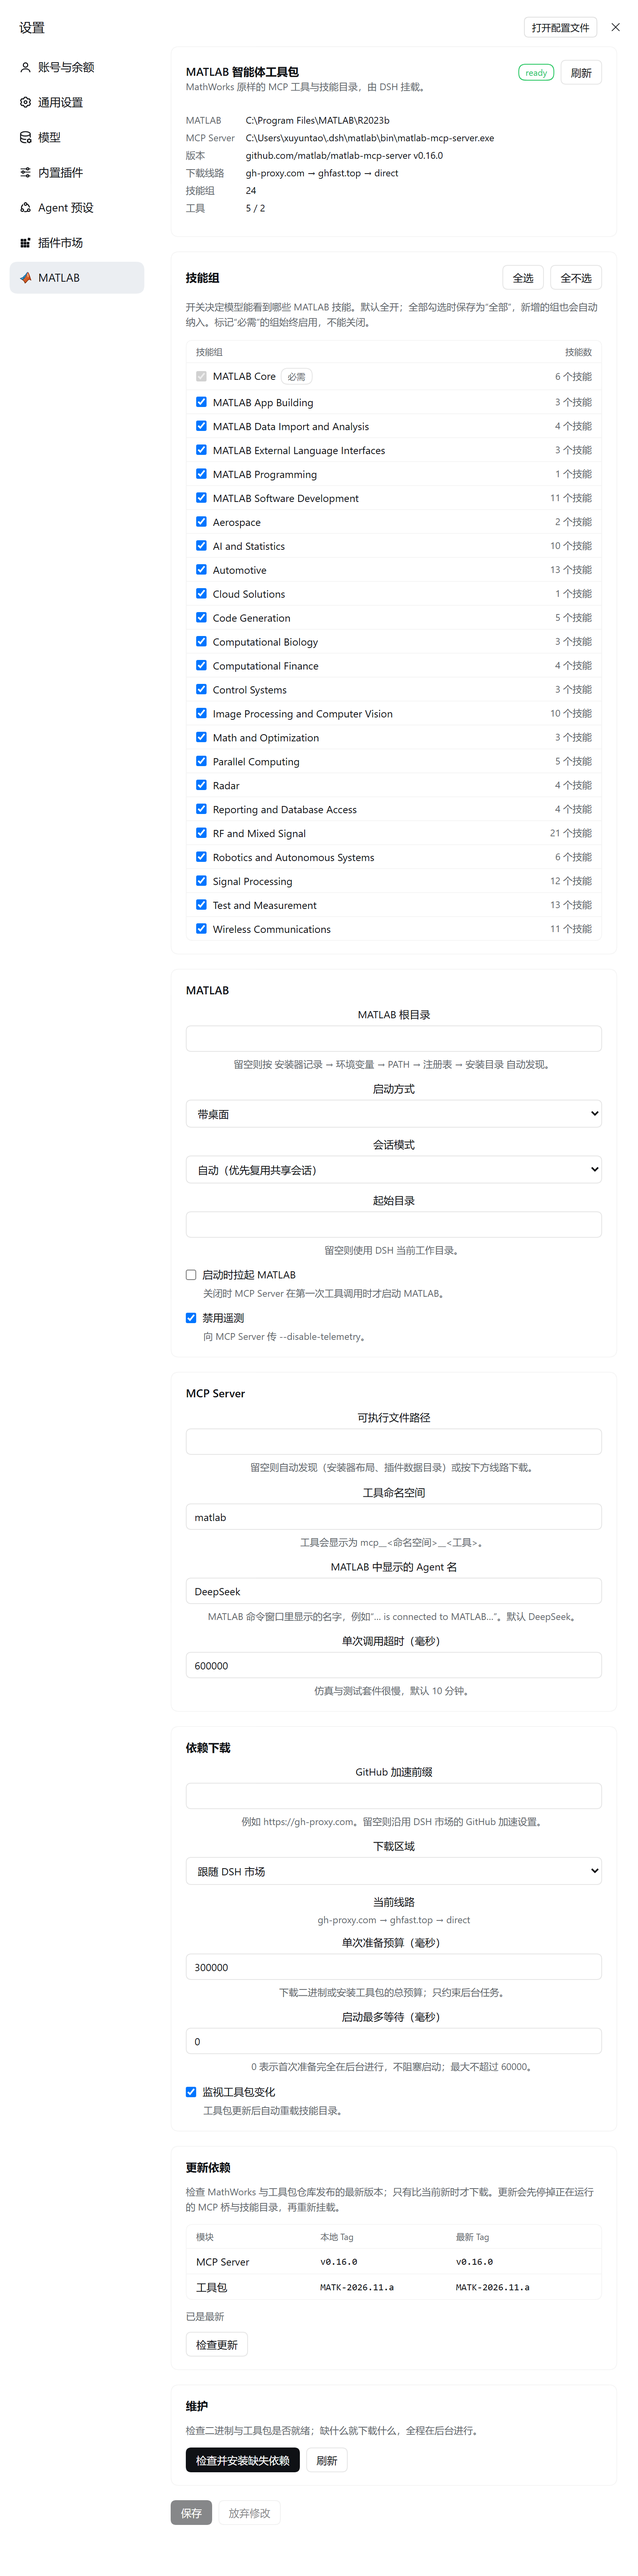
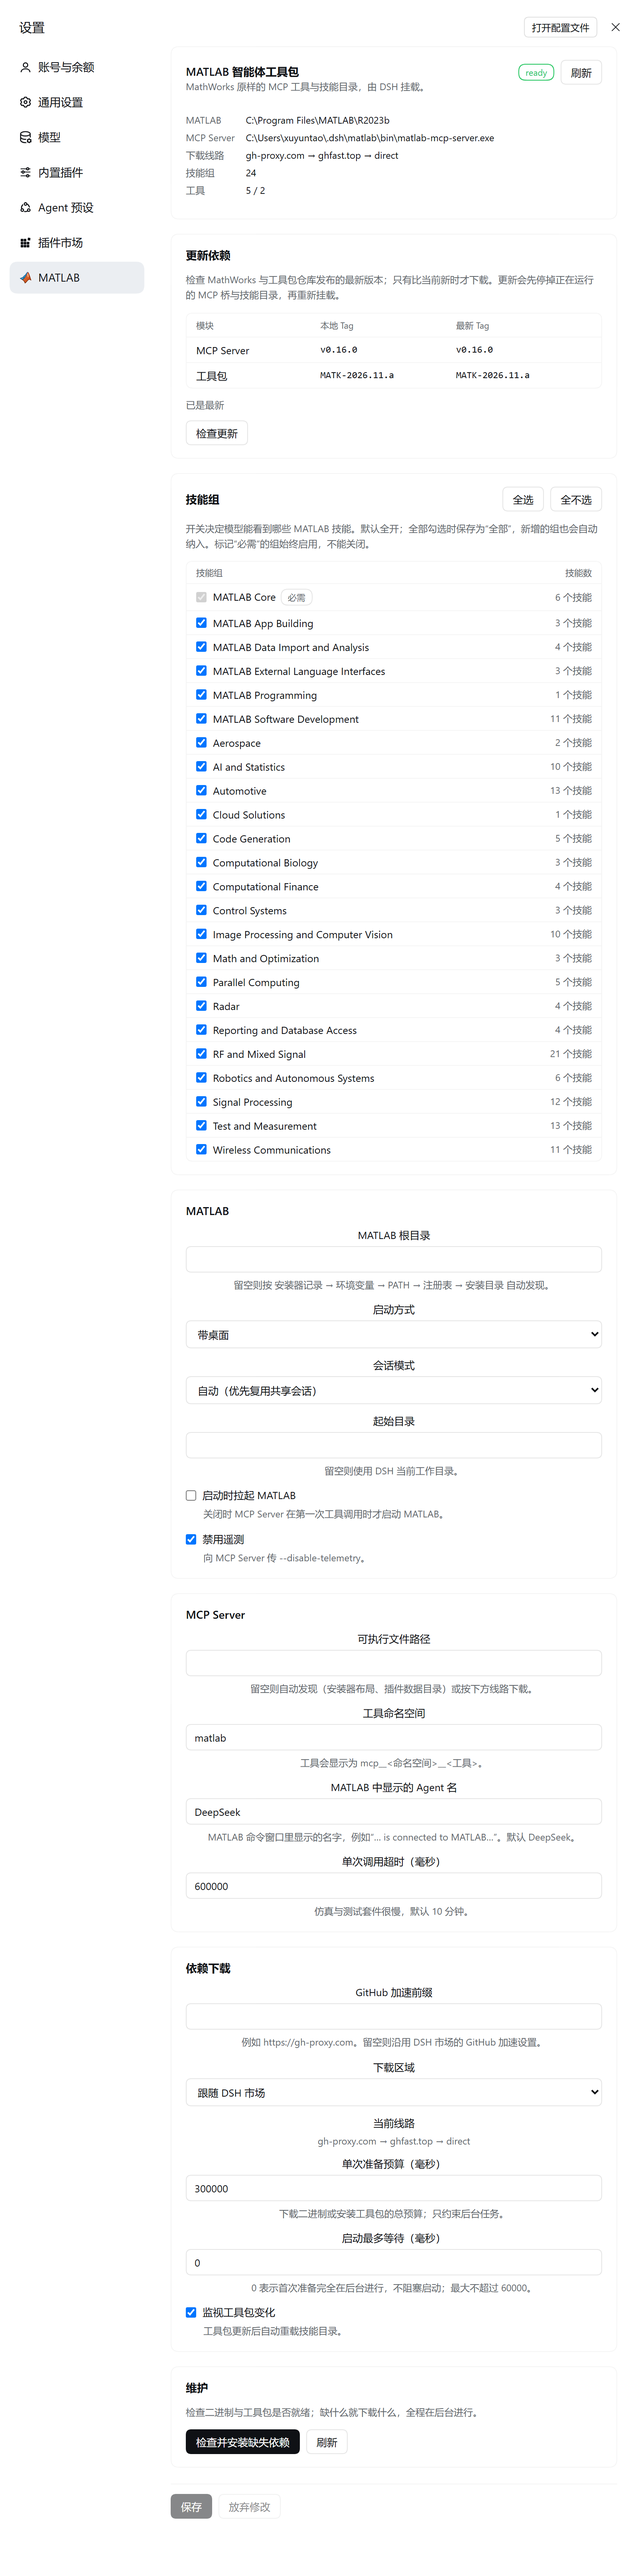
feat: put updates beside the status card and pin the save bar
- the status card no longer repeats the MCP Server version; the release tag
  is the Updates table's job now, and the version line duplicated it;
- the Updates table moved directly under the status card, so "what is
  installed / what is published" reads together before the long group list;
- Save / Discard is a sticky bar at the bottom of the settings viewport
  instead of the last thing in a 3000 px page, which nobody scrolled to;
- version 1.1.1, and the settings screenshot is retaken for the new order.

diff --git a/client/client.js b/client/client.js
@@ -33,7 +33,6 @@ window.__ModuleLoader__.load({
         phase: '阶段',
         matlab: 'MATLAB',
         server: 'MCP Server',
-        version: '版本',
         route: '下载线路',
         tools: '工具',
         resources: '资源',
@@ -140,7 +139,6 @@ window.__ModuleLoader__.load({
         phase: 'Phase',
         matlab: 'MATLAB',
         server: 'MCP Server',
-        version: 'Version',
         route: 'Route',
         tools: 'Tools',
         resources: 'Resources',
@@ -277,7 +275,8 @@ window.__ModuleLoader__.load({
     }
 
     const STYLES = `
-.mp-page{display:flex;flex-direction:column;gap:18px;max-width:760px;padding:4px 2px 40px;color:var(--dsw-alias-label-primary)}
+.mp-page{display:flex;flex-direction:column;gap:18px;max-width:760px;padding:4px 2px 0;color:var(--dsw-alias-label-primary)}
+.mp-savebar{position:sticky;bottom:-1px;z-index:6;display:flex;flex-wrap:wrap;align-items:center;gap:8px;margin-top:2px;padding:12px 0 14px;background:var(--dsw-alias-bg-base);border-top:1px solid var(--dsw-alias-border-l1);box-shadow:0 -12px 20px -20px rgba(0,0,0,.45)}
 .mp-card{border:1px solid var(--dsw-alias-border-l1);border-radius:12px;background:var(--dsw-alias-bg-layer-1);padding:16px 18px;display:flex;flex-direction:column;gap:12px}
 .mp-card-head{display:flex;align-items:baseline;justify-content:space-between;gap:12px}
 .mp-card-title{font-size:14px;font-weight:600;margin:0}
@@ -465,8 +464,6 @@ window.__ModuleLoader__.load({
           h('dd', null, state.matlab?.root ?? t('notDetected')),
           h('dt', null, t('server')),
           h('dd', null, state.server?.path ?? t('notDetected')),
-          h('dt', null, t('version')),
-          h('dd', null, state.server?.version ?? t('none')),
           h('dt', null, t('route')),
           h('dd', null, routeList.length === 0 ? t('none') : routeList.join(' → ')),
           h('dt', null, t('groups')),
@@ -731,8 +728,15 @@ window.__ModuleLoader__.load({
           outdated ? h(Button, { variant: 'primary', onClick: onUpdate, disabled: busy }, t('updateNow')) : null))
     }
 
+    /**
+     * The page's save bar.
+     *
+     * It is sticky rather than last-in-flow: the page is much taller than the
+     * settings viewport (24 groups plus every card), and a save button nobody
+     * scrolls back to is a save button nobody finds.
+     */
     function SaveBar({ t, busy, dirty, editable, message, onSave, onRevert }) {
-      return h('div', { className: 'mp-actions' },
+      return h('div', { className: 'mp-savebar' },
         h(Button, { variant: 'primary', onClick: onSave, disabled: busy || !dirty || !editable },
           busy ? t('saving') : t('save')),
         h(Button, { onClick: onRevert, disabled: busy || !dirty }, t('revert')),
@@ -878,10 +882,9 @@ window.__ModuleLoader__.load({
       return h('div', { className: 'mp-page' },
         h(Styles),
         h(StatusCard, { t, state, onRefresh: () => { void load() } }),
-        h(GroupsCard, { t, state, selected, onSelected: setSelected }),
-        h(MatlabCard, { t, state, draft, onDraft: setDraft }),
-        h(ServerCard, { t, state, draft, onDraft: setDraft }),
-        h(NetworkCard, { t, state, draft, onDraft: setDraft }),
+        // The update card follows the status card: "what is installed / what is
+        // published" belongs next to the state it compares, before the long
+        // groups list.
         h(UpdatesCard, {
           t,
           state,
@@ -890,6 +893,10 @@ window.__ModuleLoader__.load({
           onCheck: () => { void check() },
           onUpdate: () => { void update() },
         }),
+        h(GroupsCard, { t, state, selected, onSelected: setSelected }),
+        h(MatlabCard, { t, state, draft, onDraft: setDraft }),
+        h(ServerCard, { t, state, draft, onDraft: setDraft }),
+        h(NetworkCard, { t, state, draft, onDraft: setDraft }),
         h(MaintenanceCard, { t, busy, onInstall: () => { void install() }, onRefresh: () => { void load(true) } }),
         h(SaveBar, {
           t,

diff --git a/README.md b/README.md
@@ -12,7 +12,7 @@
 
 > 设计与取舍见 [DESIGN.md](DESIGN.md)。命令与字段速查见下文。商店提交材料（条目 YAML、PR 文案）见 [docs/STORE.md](docs/STORE.md)。
 
-![设置 → MATLAB 整页长截图：连接状态、24 个技能组开关、启动参数、MCP Server、依赖下载，以及带本地/最新 Release Tag 的“更新依赖”三列表](assets/settings.png)
+![设置 → MATLAB 整页长截图：连接状态、带本地/最新 Release Tag 的“更新依赖”三列表、24 个技能组开关、启动参数、MCP Server、依赖下载，以及固定在底部的保存条](assets/settings.png)
 
 ---
 
@@ -128,7 +128,7 @@ pnpm add file:/path/to/dsh-matlab
 
 插件自带 Web 界面（纯 ESM 客户端模块，无构建步骤）：
 
-- **设置 → MATLAB**（侧栏设置面板里的一页）：连接状态（阶段、MATLAB 根、MCP Server 与版本、实际线路、探测到的工具数）；**技能组开关**（可上下滚动的两列列表：组名 + 技能数；默认全选，全部勾选时保存为“全部”，将来新增的组自动纳入；标“必需”的组锁定为已选，不能关闭）；MATLAB 启动参数（根目录、桌面、会话模式、起始目录、启动即拉起、遥测默认关闭）；MCP Server（可执行文件路径、命名空间、调用超时）；依赖下载（加速前缀、区域、预算、启动等待、监视工具包）；更新依赖（检查更新 / 更新依赖）；维护（一键检查并安装缺失依赖）。
+- **设置 → MATLAB**（侧栏设置面板里的一页）：连接状态（阶段、MATLAB 根、MCP Server 路径、实际线路、探测到的工具数）；**更新依赖**（三列表：模块 / 本地 Tag / 最新 Tag，紧跟状态卡片）；**技能组开关**（可上下滚动的两列列表：组名 + 技能数；默认全选，全部勾选时保存为“全部”，将来新增的组自动纳入；标“必需”的组锁定为已选，不能关闭）；MATLAB 启动参数（根目录、桌面、会话模式、起始目录、启动即拉起、遥测默认关闭）；MCP Server（可执行文件路径、命名空间、调用超时）；依赖下载（加速前缀、区域、预算、启动等待、监视工具包）；维护（一键检查并安装缺失依赖）。**保存 / 放弃修改固定在页面底部**，滚动到任何位置都能看到。
 - **右下角进度对话框**：首次准备、或缺口被补齐时出现，显示“正在下载工具包发布包 / 正在下载二进制”、字节进度（镜像声明长度时是确定进度，否则流动条）、当前线路；可以关掉（后台继续），失败可重试。它只是提示，不挡住应用。
 
 设置保存后**立即生效**：页面通过 DSH 的 `settings` 服务写入 profile 补丁，DSH 把 volatile 变更提交给运行中的插件，插件收到 `loader/volatile-update` 后重新挂载受影响的部分（技能目录、MCP 桥）。直接在 `cordis.patch.yml` 里改这些字段效果相同。

diff --git a/DESIGN.md b/DESIGN.md
@@ -209,7 +209,7 @@ Cordis 的 `Fiber._execute` 会校验插件激活的**返回值**：函数算 di
 
 依赖装好之后不会自己变新，而“每次启动都检查”又会把网络探测塞回启动路径。所以更新是**用户发起**的动作：设置页的“检查更新”只做两次很小的只读探测，一个字节的业务数据都不下载。
 
-在用户按下按钮之前，卡片按激活状态显示本地 Tag：MCP Server 用 `--version` 里解析出的 `vX.Y.Z`，工具包用安装目录里 `.dsh-matlab-release.json` 记的 Tag（旧版 `git clone` 的副本没有这个文件，显示“未知”而不是编一个版本）；只有 `updates` 比较结果缺失且产物确实不存在时才写“未安装”。首版把“还没比较”直接渲染成“未安装”，让一个已经挂载了 24 组技能的工具包看起来缺失，这是必须避免的误报：状态投影要么来自磁盘事实，要么明确说“尚未检查”。1.1.0 起卡片是一张三列表（模块 / 本地 Tag / 最新 Tag）：最新列在检查前写“未检查”，检查后**即使与本地相同也写出官方 Tag**——用户问的是“官方现在是哪一版”，不是“要不要更新”。
+在用户按下按钮之前，卡片按激活状态显示本地 Tag：MCP Server 用 `--version` 里解析出的 `vX.Y.Z`，工具包用安装目录里 `.dsh-matlab-release.json` 记的 Tag（旧版 `git clone` 的副本没有这个文件，显示“未知”而不是编一个版本）；只有 `updates` 比较结果缺失且产物确实不存在时才写“未安装”。首版把“还没比较”直接渲染成“未安装”，让一个已经挂载了 24 组技能的工具包看起来缺失，这是必须避免的误报：状态投影要么来自磁盘事实，要么明确说“尚未检查”。1.1.1 起卡片是一张三列表（模块 / 本地 Tag / 最新 Tag）：最新列在检查前写“未检查”，检查后**即使与本地相同也写出官方 Tag**——用户问的是“官方现在是哪一版”，不是“要不要更新”。
 
 - MCP Server 的最新版本来自 GitHub 的 `releases/latest`——与安装时 `releases/latest/download/…` 指向同一个 release；某条线路拒绝或限流 `api.github.com` 时，退到发布页本身（`og:url` 里的 tag 就是 `releases/latest` 指向的那个），所以限流不会让检查整体失败。当前版本来自 `matlab-mcp-server --version` 里的 `vX.Y.Z`。只有 `latest > current` 才算更新（逐段数值比较，不是字符串比较），所以镜像晚同步不会触发“降级”。
 - 工具包的版本就是它的 Release Tag（`MATK-2026.11.a`）：安装时写进 `.dsh-matlab-release.json`，检查时与 `releases/latest` 的 tag 直接比较，相等即最新。工具包发的是月度序列，不是 semver，所以不做数值比较。

diff --git a/docs/STORE.md b/docs/STORE.md
@@ -20,7 +20,7 @@ description:
 说明：
 
 - 只有 `description.en` 是必填；`zh` 已有，保持同步。
-- 描述里的每一句都对得上代码：插件不实现 MATLAB 能力（只挂载 MathWorks 的 MCP Server 与技能目录）；`autoProvision` 默认 `true`；`disableTelemetry` 默认 `true`（= 遥测关闭），所以文案写“除非设置 disableTelemetry，否则遥测保持开启”。这里不再出现“克隆工具包”，因为 1.1.0 起改为安装最新 Release。
+- 描述里的每一句都对得上代码：插件不实现 MATLAB 能力（只挂载 MathWorks 的 MCP Server 与技能目录）；`autoProvision` 默认 `true`；`disableTelemetry` 默认 `true`（= 遥测关闭），所以文案写“除非设置 disableTelemetry，否则遥测保持开启”。这里不再出现“克隆工具包”，因为 1.1.1 起改为安装最新 Release。
 - 不加 `icon:`：商店回退到作者头像，`icon.svg` 仍是插件自己的图标。
 - 不加 `tarball:`：本包未发布 npm，源码安装即可（`dsh.bundle` 已声明）。
 - 不加 `npm:`：没有 npm 包，这一项也不允许手写。
@@ -30,7 +30,7 @@ description:
 商店的详情页截图不从上面那个 YAML 里写，而是读插件仓库自己的 `screenshots.json`：
 
 - `screenshots.json` → `["assets/settings.png"]`
-- `assets/settings.png` → **设置 → MATLAB 整页长截图**（1600 × 6456，含全部 24 个技能组与“更新依赖”三列表）
+- `assets/settings.png` → **设置 → MATLAB 整页长截图**（1600 × 6390，含全部 24 个技能组、紧跟状态卡片的“更新依赖”三列表，以及固定在底部的保存条）
 
 想换图只需替换这两个文件再推本仓库，不用到商店仓库开 PR，下一次夜间构建自动生效。
 
